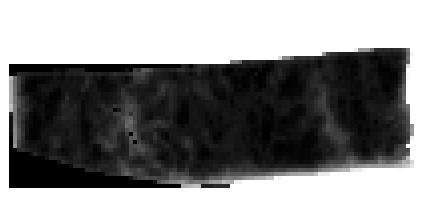
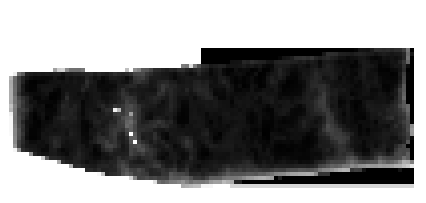
feat: add option in triangulation for z_inf and z_sup

diff --git a/cars/applications/triangulation/line_of_sight_intersection_app.py b/cars/applications/triangulation/line_of_sight_intersection_app.py
@@ -79,6 +79,9 @@ class LineOfSightIntersection(
         self.snap_to_img1 = self.used_config["snap_to_img1"]
         # Saving files
         self.save_intermediate_data = self.used_config["save_intermediate_data"]
+        self.z_inf_sup_bh_approximation = self.used_config[
+            "z_inf_sup_bh_approximation"
+        ]
 
         # global value for left image to check if snap_to_img1 can
         # be applied : Need than same application object is run
@@ -118,10 +121,15 @@ class LineOfSightIntersection(
             "save_intermediate_data", False
         )
 
+        overloaded_conf["z_inf_sup_bh_approximation"] = conf.get(
+            "z_inf_sup_bh_approximation", True
+        )
+
         triangulation_schema = {
             "method": str,
             "snap_to_img1": bool,
             "save_intermediate_data": bool,
+            "z_inf_sup_bh_approximation": bool,
         }
 
         # Check conf
@@ -613,6 +621,8 @@ class LineOfSightIntersection(
         geomodel1 = sensor_image_left[sens_cst.INPUT_GEO_MODEL]
         geomodel2 = sensor_image_right[sens_cst.INPUT_GEO_MODEL]
 
+        disp_to_alt_ratio = grid_left["disp_to_alt_ratio"]
+
         if epipolar_disparity_map.dataset_type != "points":
             if source_pc_names is None:
                 source_pc_names = ["PAIR_0"]
@@ -842,6 +852,8 @@ class LineOfSightIntersection(
                             broadcasted_interpolated_grid_right,
                             geometry_plugin,
                             epsg,
+                            self.z_inf_sup_bh_approximation,
+                            disp_to_alt_ratio,
                             geoid_path=geoid_path,
                             denoising_overload_fun=denoising_overload_fun,
                             cloud_id=cloud_id,
@@ -902,12 +914,15 @@ class LineOfSightIntersection(
                             geometry_plugin,
                             full_saving_info_matches,
                             epsg,
+                            self.z_inf_sup_bh_approximation,
+                            disp_to_alt_ratio,
                         )
 
         return epipolar_point_cloud
 
 
-def triangulation_wrapper(  # pylint: disable=too-many-positional-arguments
+def triangulation_wrapper(  # noqa: C901 function is too complex
+    # pylint: disable=too-many-positional-arguments
     disparity_object: xr.Dataset,
     sensor1,
     sensor2,
@@ -917,6 +932,8 @@ def triangulation_wrapper(  # pylint: disable=too-many-positional-arguments
     grid2,
     geometry_plugin,
     epsg,
+    z_inf_sup_bh_approximation,
+    disp_to_alt_ratio,
     geoid_path=None,
     denoising_overload_fun=None,
     cloud_id=None,
@@ -1022,37 +1039,63 @@ def triangulation_wrapper(  # pylint: disable=too-many-positional-arguments
                     perf_ambiguity_threshold = performance_maps_parameters[
                         "perf_ambiguity_threshold"
                     ]
-                # triangulate disp inf and supp
-                points_inf = triangulation_algo.triangulate(
-                    geometry_plugin,
-                    sensor1,
-                    sensor2,
-                    geomodel1,
-                    geomodel2,
-                    grid1,
-                    grid2,
-                    disp_ref,
-                    disp_key=disp_keys[0],
-                )
 
-                points_sup = triangulation_algo.triangulate(
-                    geometry_plugin,
-                    sensor1,
-                    sensor2,
-                    geomodel1,
-                    geomodel2,
-                    grid1,
-                    grid2,
-                    disp_ref,
-                    disp_key=disp_keys[1],
-                )
+                if z_inf_sup_bh_approximation:
+                    z_points = points[cst.STEREO_REF][cst.Z]
+                    disp_min = disp_ref[disp_keys[0]]
+                    disp_max = disp_ref[disp_keys[1]]
 
-                points[cst.STEREO_REF][cars_inf_key] = points_inf[
-                    cst.STEREO_REF
-                ][cst.Z]
-                points[cst.STEREO_REF][cars_sup_key] = points_sup[
-                    cst.STEREO_REF
-                ][cst.Z]
+                    points_inf = (
+                        -disp_to_alt_ratio * (disp_min - disp_ref["disp"])
+                        + z_points.values
+                    )
+
+                    points_sup = (
+                        -disp_to_alt_ratio * (disp_max - disp_ref["disp"])
+                        + z_points.values
+                    )
+
+                    points[cst.STEREO_REF][cars_inf_key] = (
+                        ("row", "col"),
+                        points_inf.data,
+                    )
+                    points[cst.STEREO_REF][cars_sup_key] = (
+                        ("row", "col"),
+                        points_sup.data,
+                    )
+                else:
+                    # triangulate disp inf and supp
+                    points_inf = triangulation_algo.triangulate(
+                        geometry_plugin,
+                        sensor1,
+                        sensor2,
+                        geomodel1,
+                        geomodel2,
+                        grid1,
+                        grid2,
+                        disp_ref,
+                        disp_key=disp_keys[0],
+                    )
+
+                    points_sup = triangulation_algo.triangulate(
+                        geometry_plugin,
+                        sensor1,
+                        sensor2,
+                        geomodel1,
+                        geomodel2,
+                        grid1,
+                        grid2,
+                        disp_ref,
+                        disp_key=disp_keys[1],
+                    )
+
+                    points[cst.STEREO_REF][cars_inf_key] = points_inf[
+                        cst.STEREO_REF
+                    ][cst.Z]
+                    points[cst.STEREO_REF][cars_sup_key] = points_sup[
+                        cst.STEREO_REF
+                    ][cst.Z]
+
                 # Generate performance map
                 points[cst.STEREO_REF][cars_perf_key] = (
                     triangulation_wrap.compute_performance_map(

diff --git a/tests/pipelines/test_wrappers.py b/tests/pipelines/test_wrappers.py
@@ -212,6 +212,8 @@ def test_epipolar_pipeline(  # pylint: disable=too-many-positional-arguments
             conf={"plugin_name": "SharelocGeometry", "interpolator": "linear"}
         ),
         32636,
+        False,
+        None,
     )
 
     # Uncomment to update reference

diff --git a/docs/source/configuration/applications/triangulation.rst b/docs/source/configuration/applications/triangulation.rst
@@ -11,15 +11,17 @@ Triangulating the sights and get for each point of the reference image a latitud
 
 **Configuration**
 
-+------------------------+--------------------------------------------------------------------------------------------------------------------+---------+--------------------------------------+------------------------------+----------+
-| Name                   | Description                                                                                                        | Type    | Available values                      | Default value               | Required |
-+========================+====================================================================================================================+=========+======================================+==============================+==========+
-| method                 | Method for triangulation                                                                                           | string  | "line_of_sight_intersection"         | "line_of_sight_intersection" | No       |
-+------------------------+--------------------------------------------------------------------------------------------------------------------+---------+--------------------------------------+------------------------------+----------+
-| snap_to_img1           | If all pairs share the same left image, modify lines of sight of secondary images to cross those of the ref image  | boolean |                                      | false                        | No       |
-+------------------------+--------------------------------------------------------------------------------------------------------------------+---------+--------------------------------------+------------------------------+----------+
-| save_intermediate_data | Save depth map as TIF, LAZ and CSV                                                                                 | boolean |                                      | false                        | No       |
-+------------------------+--------------------------------------------------------------------------------------------------------------------+---------+--------------------------------------+------------------------------+----------+
++----------------------------+--------------------------------------------------------------------------------------------------------------------+---------+--------------------------------------+------------------------------+----------+
+| Name                       | Description                                                                                                        | Type    | Available values                      | Default value               | Required |
++============================+====================================================================================================================+=========+======================================+==============================+==========+
+| method                     | Method for triangulation                                                                                           | string  | "line_of_sight_intersection"         | "line_of_sight_intersection" | No       |
++----------------------------+--------------------------------------------------------------------------------------------------------------------+---------+--------------------------------------+------------------------------+----------+
+| snap_to_img1               | If all pairs share the same left image, modify lines of sight of secondary images to cross those of the ref image  | boolean |                                      | false                        | No       |
++----------------------------+--------------------------------------------------------------------------------------------------------------------+---------+--------------------------------------+------------------------------+----------+
+| save_intermediate_data     | Save depth map as TIF, LAZ and CSV                                                                                 | boolean |                                      | false                        | No       |
++----------------------------+--------------------------------------------------------------------------------------------------------------------+---------+--------------------------------------+------------------------------+----------+
+| z_inf_sup_bh_approximation | The method to use for z_inf, z_sup triangulation                                                                   | boolean |                                      | true                         | No       |
++----------------------------+--------------------------------------------------------------------------------------------------------------------+---------+--------------------------------------+------------------------------+----------+
 
 **Example**
 